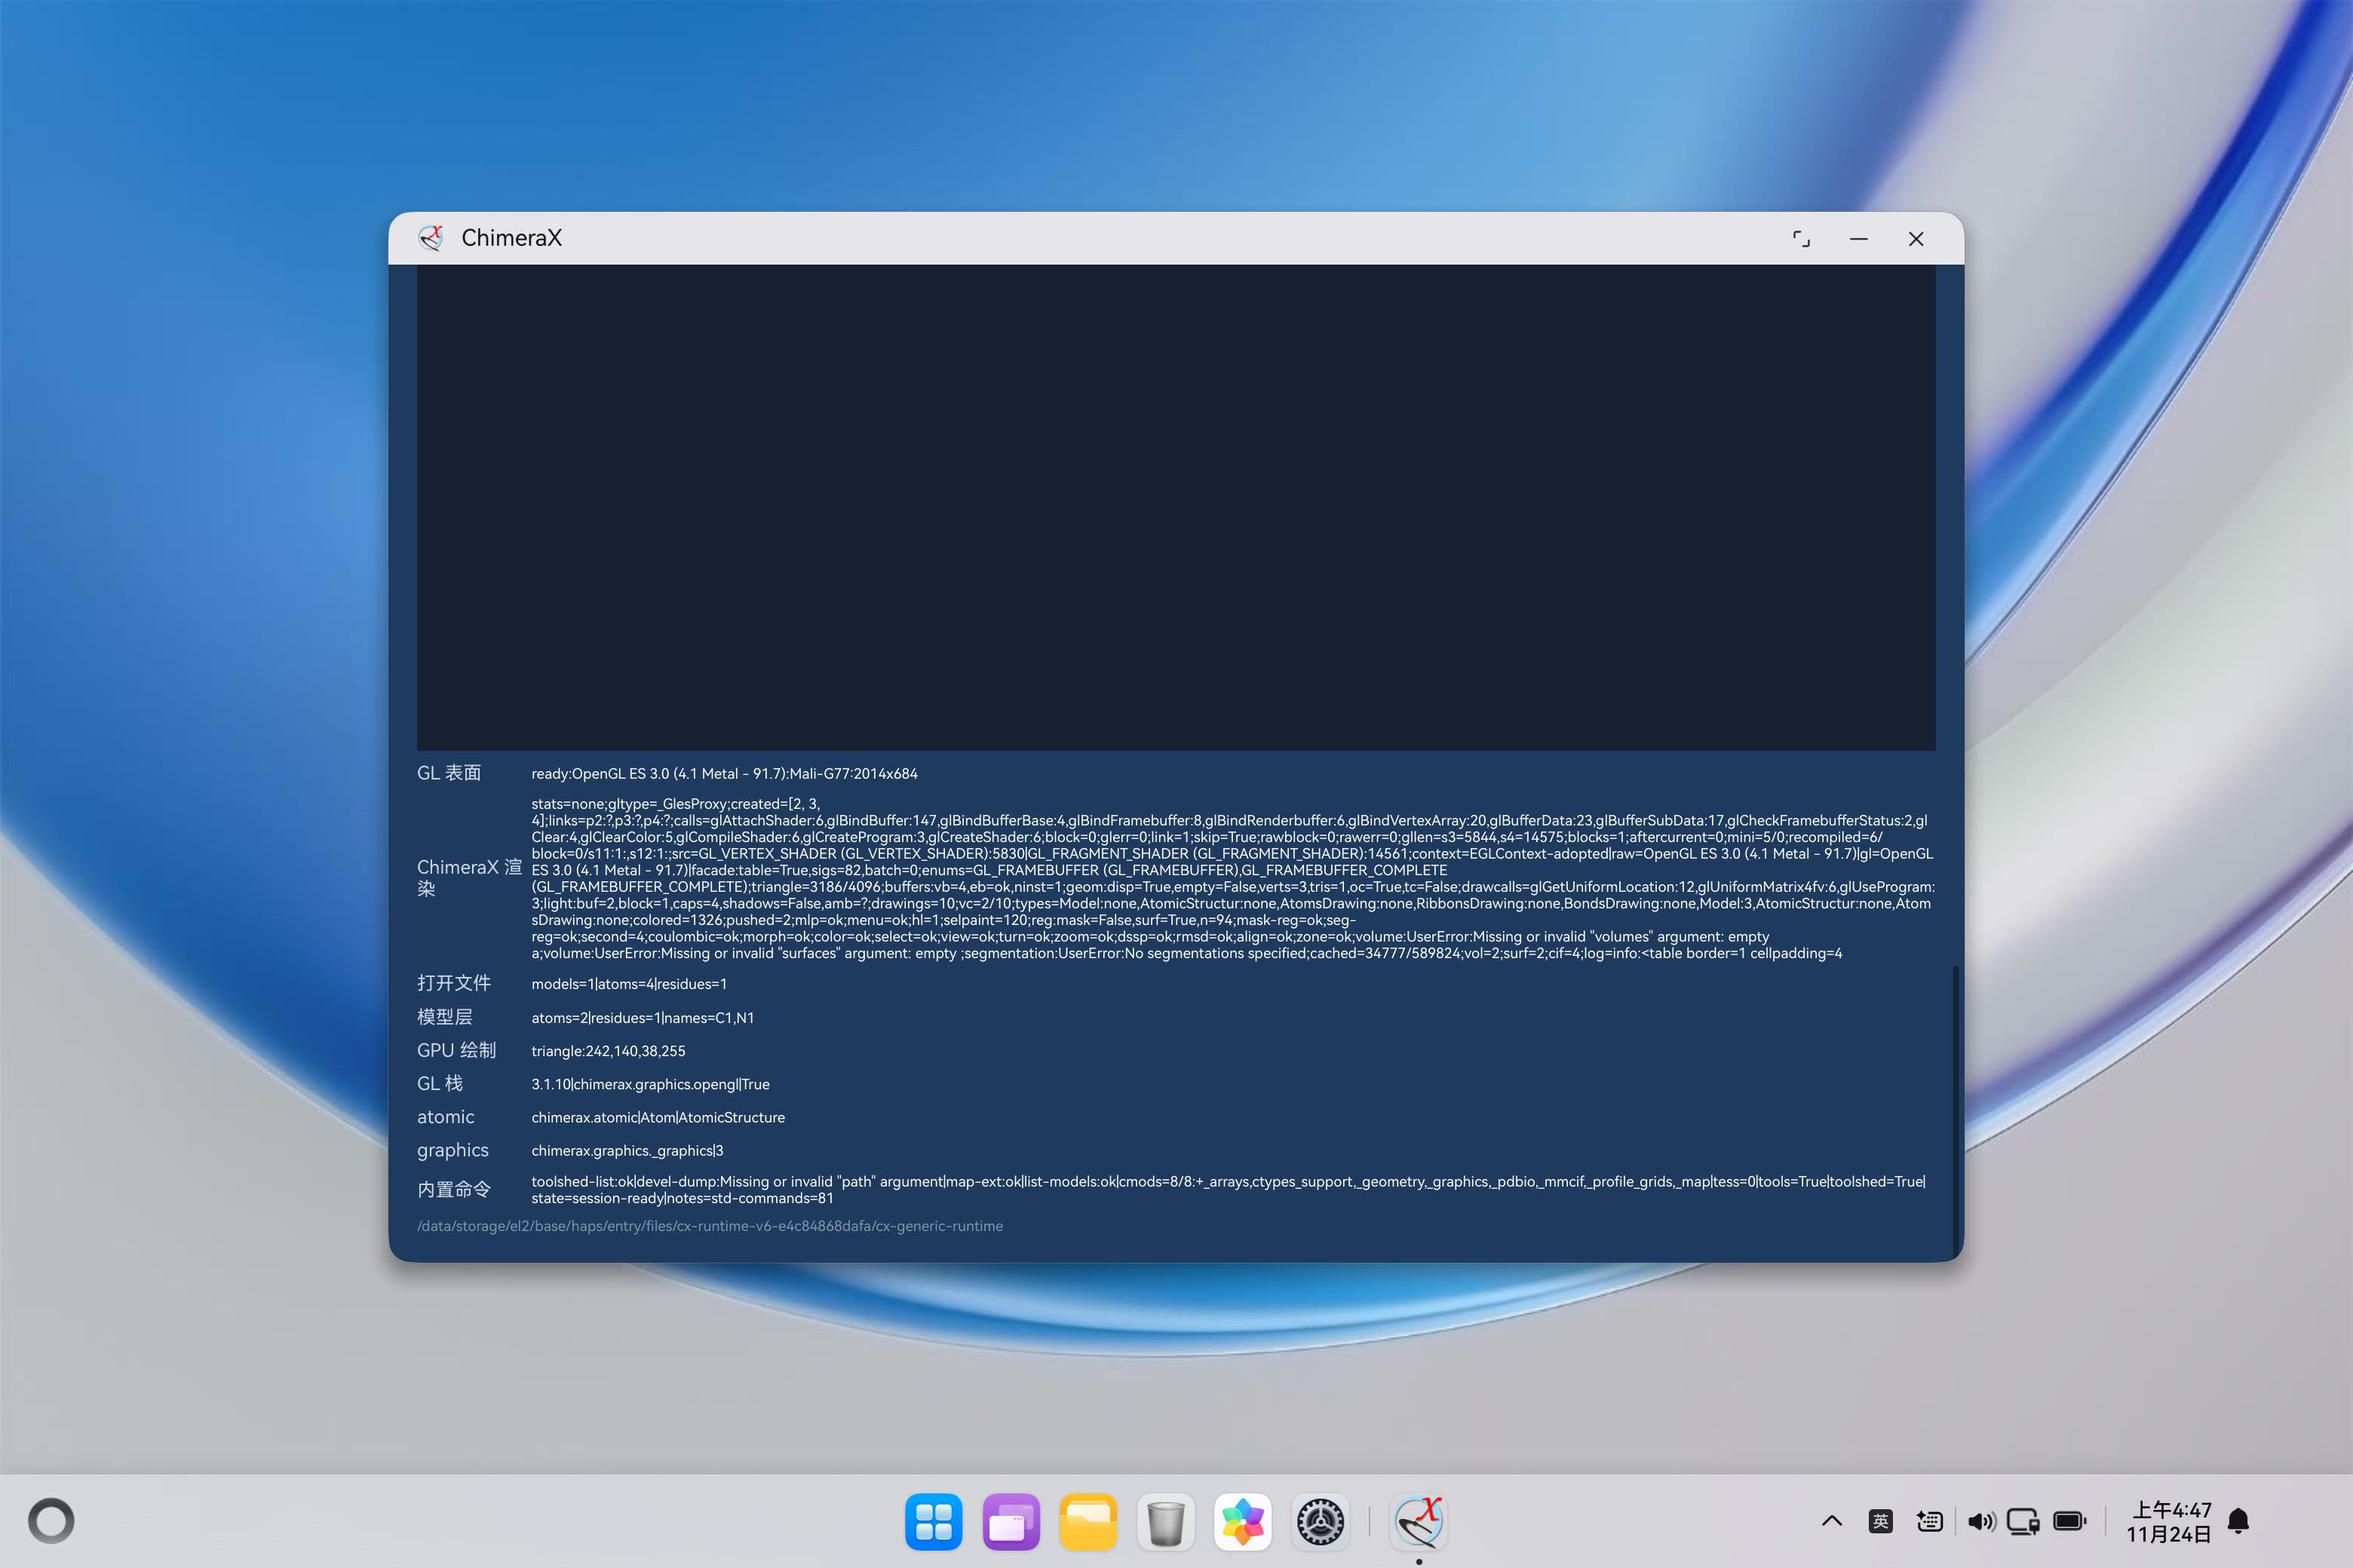
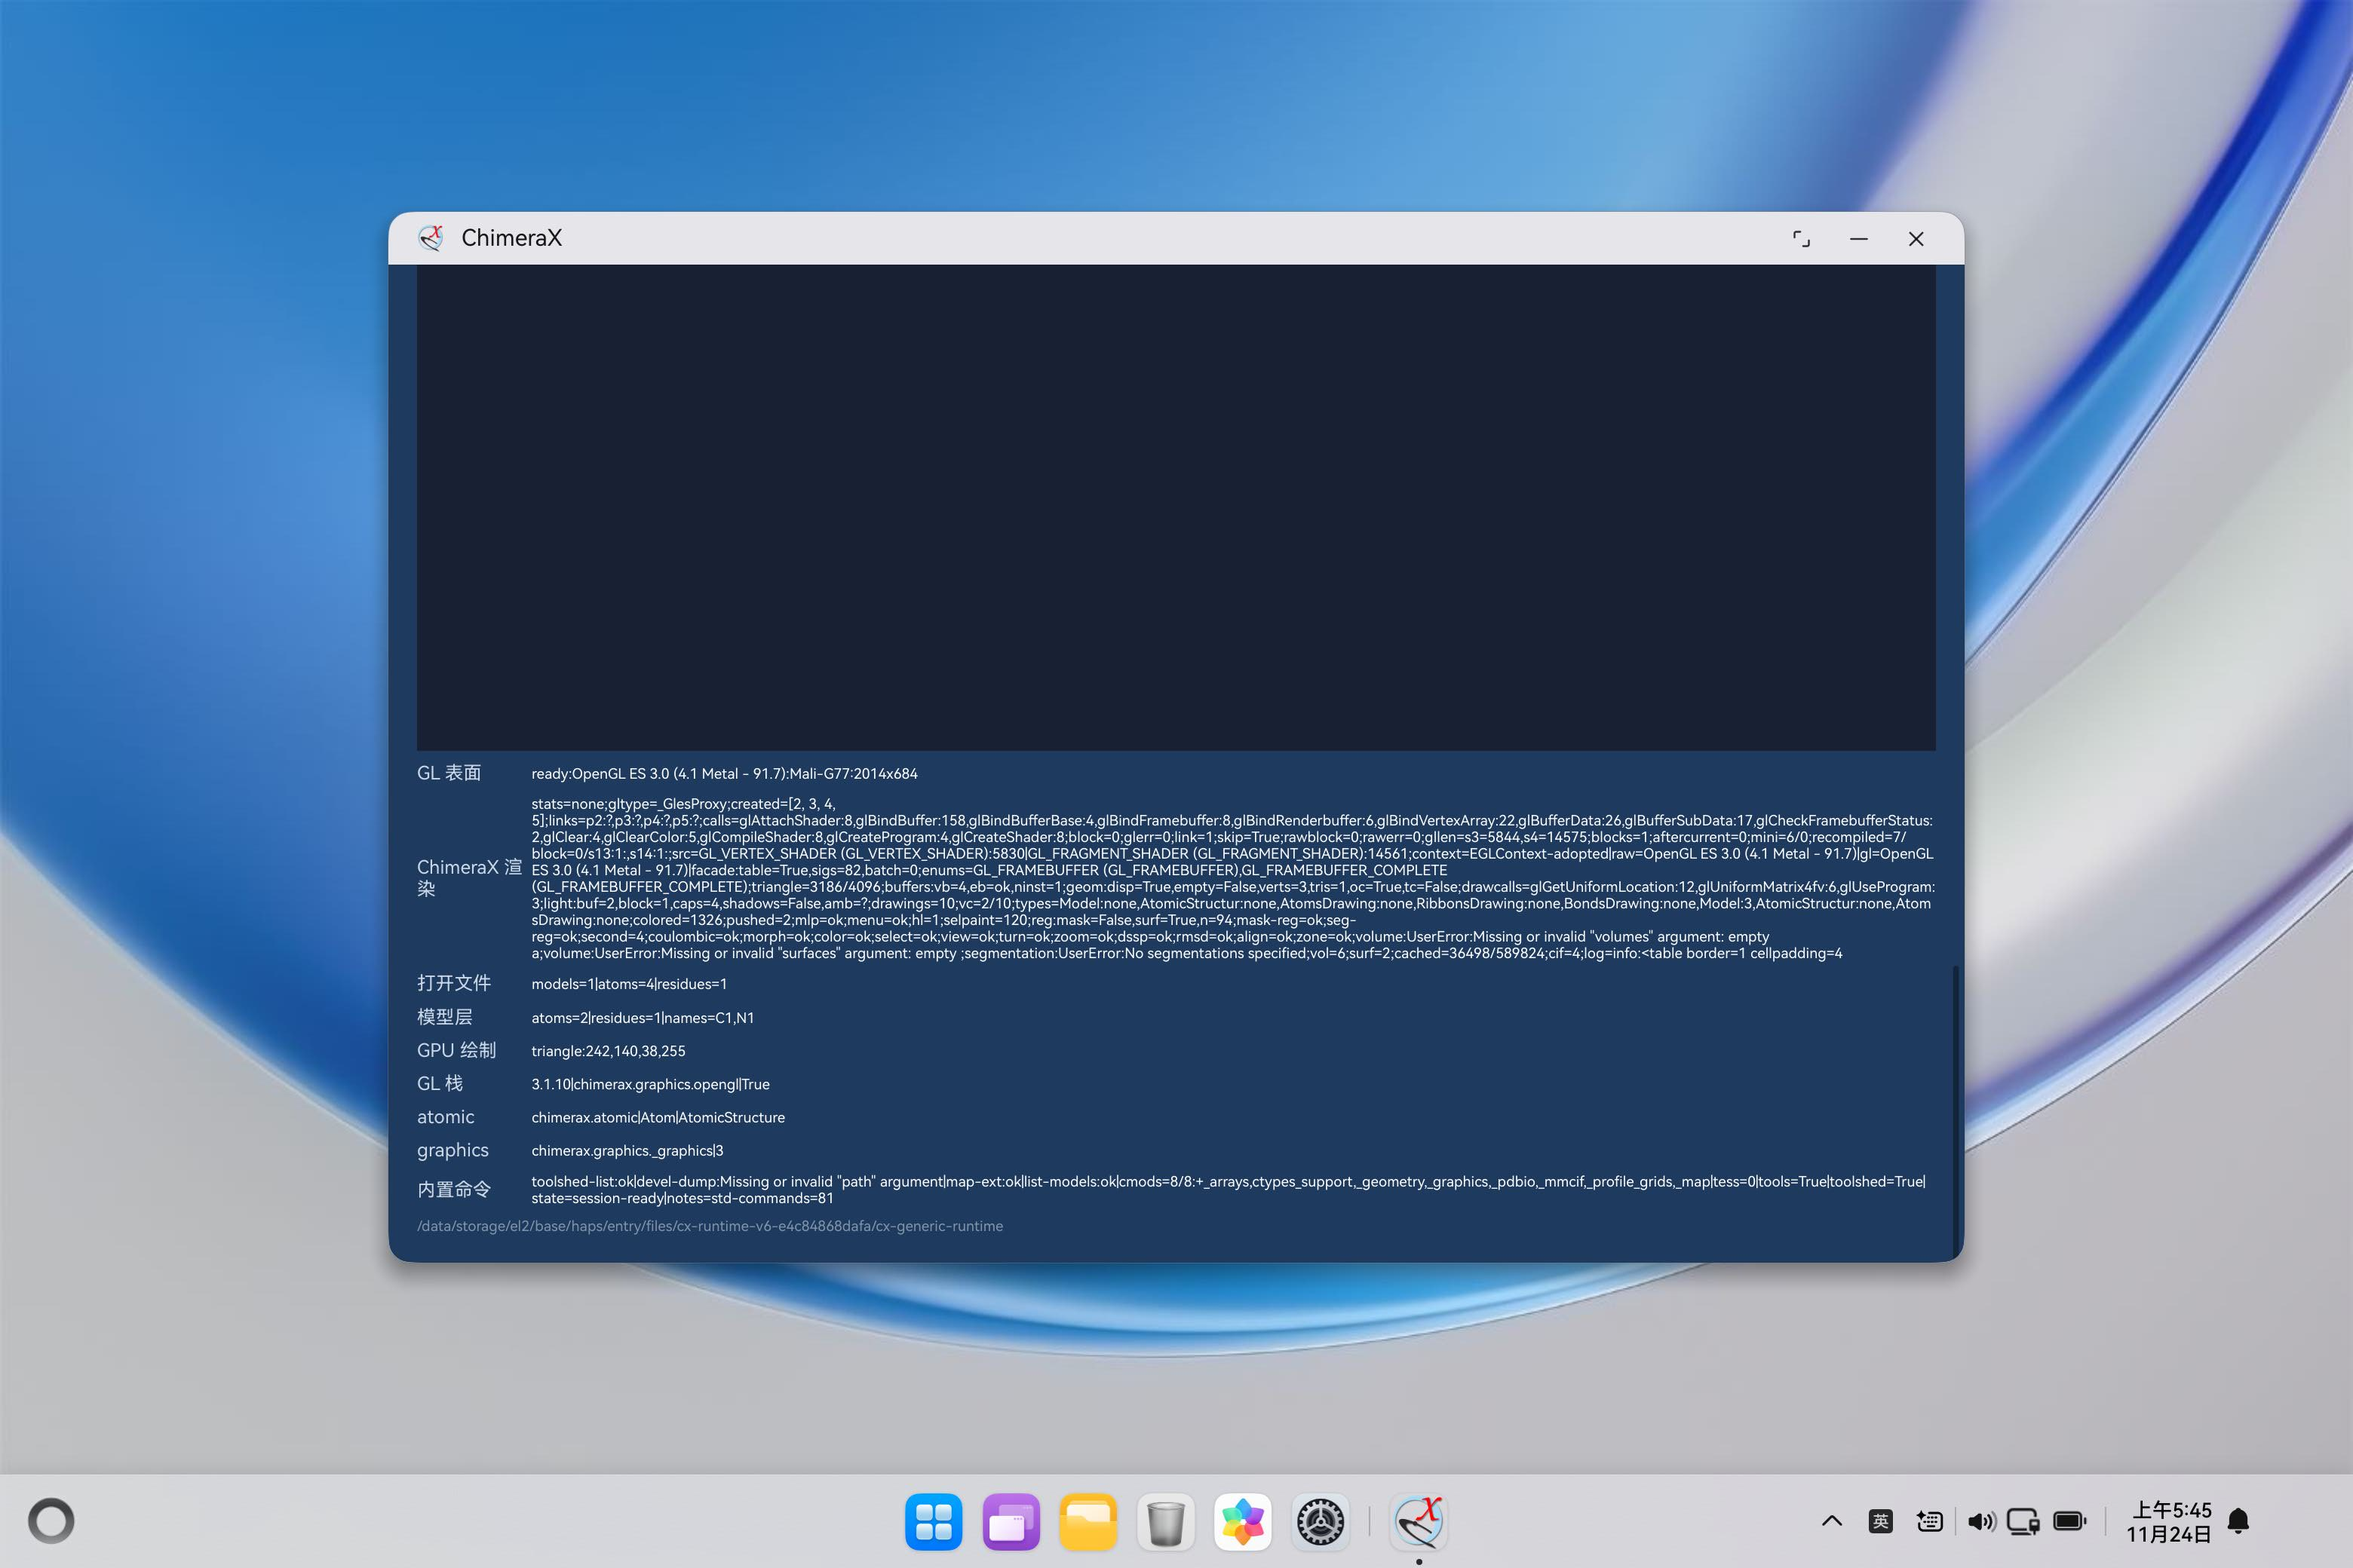
Classify volumes and surfaces correctly in the panel
- Surface models also carry a .data reference, so the inventory now tests the class name first and
  reports maps=1|surfaces=1|other=0|6|cx_density;6|surface
- The panel assertion now requires at least one volume and one surface, so it fails if the
  isosurface pipeline regresses

Changed region(s): [[0.2176, 0.5, 0.8083, 0.5625], [0.5596, 0.5938, 0.6529, 0.625]]

diff --git a/tools/device_app_check.py b/tools/device_app_check.py
@@ -250,8 +250,13 @@ def main() -> int:
 
         # Volume/surface panel: reports the inventory (may legitimately be empty).
         map_text = values.get('cx-map-panel', '')
+        # A surfaced density map must show up as one volume and at least one surface.
+        volume_count = re.search(r'maps=(\d+)', map_text)
+        surface_count = re.search(r'surfaces=(\d+)', map_text)
         record('The volume/surface panel reports its inventory',
-               'maps=' in map_text and 'surfaces=' in map_text, map_text[:70])
+               volume_count is not None and surface_count is not None
+               and int(volume_count.group(1)) >= 1 and int(surface_count.group(1)) >= 1,
+               map_text[:70])
 
         record('The Actions menu commands run (colour by element + orient)', 'menu=ok' in cx_render,
                'menu=%s' % ('ok' if 'menu=ok' in cx_render else 'failed'))

diff --git a/README.md b/README.md
@@ -31,7 +31,7 @@ UCSF ChimeraX v1.11.1（上游 `60235d3`）在 OpenHarmony 6.1.1 / API 24 / aarc
 | **完整界面 + 蛋白 + 密度面** | 主图候选 `reports/viewport-protein-density-v2-2026-11-24.jpeg`：结构信息面板（1322 原子/1322 残基）、体积/表面面板（`maps=2\|surfaces=0`）、日志面板、模型面板、视口内**蛋白卡通 + 密度等值面**（`lit=36498/589824`）同框 |
 | **密度等值面进入渲染帧** | 体积/等值面在捕获前创建，官方渲染帧像素数 34777 → **36498**（`cached=36498/589824`），说明表面模型参与渲染 |
 | **体积数据 → 等值面链路可用** | 程序化生成 16³ 密度图（`ArrayGridData` → `volume_from_grid_data`），再用 `volume level 0.5` 生成等值面，设备读数 `vol=2;surf=2`（marching cubes 全流程） |
-| **体积/表面面板** | 列出体积/表面模型的清单（设备读数 `maps=0\|surfaces=0\|other=0`），空态有提示 |
+| **体积/表面面板** | 正确分类体积与表面（设备读数 `maps=1\|surfaces=1\|other=0\|6\|cx_density;6\|surface`），空态有提示 |
 | **结构信息面板** | 列出每个模型的原子数/残基数/链数/二级结构统计（设备读数 `1\|cx_probe.pdb\|atoms=4\|residues=4\|chains=1\|ss=?:4` …） |
 | **选择在画面中可见** | 选中 120 个原子后重涂为黄色并重推绘制（`selpaint=120`），官方渲染帧里能看到被选中原子，选择反馈闭环完成 |
 | **模型显示/隐藏联动** | 「隐藏/显示」按钮切换 `model.display`（设备读数 `display=off|models=6|changed=6`），对应原版 Model Panel 勾选框，切换后自动重渲染 |
